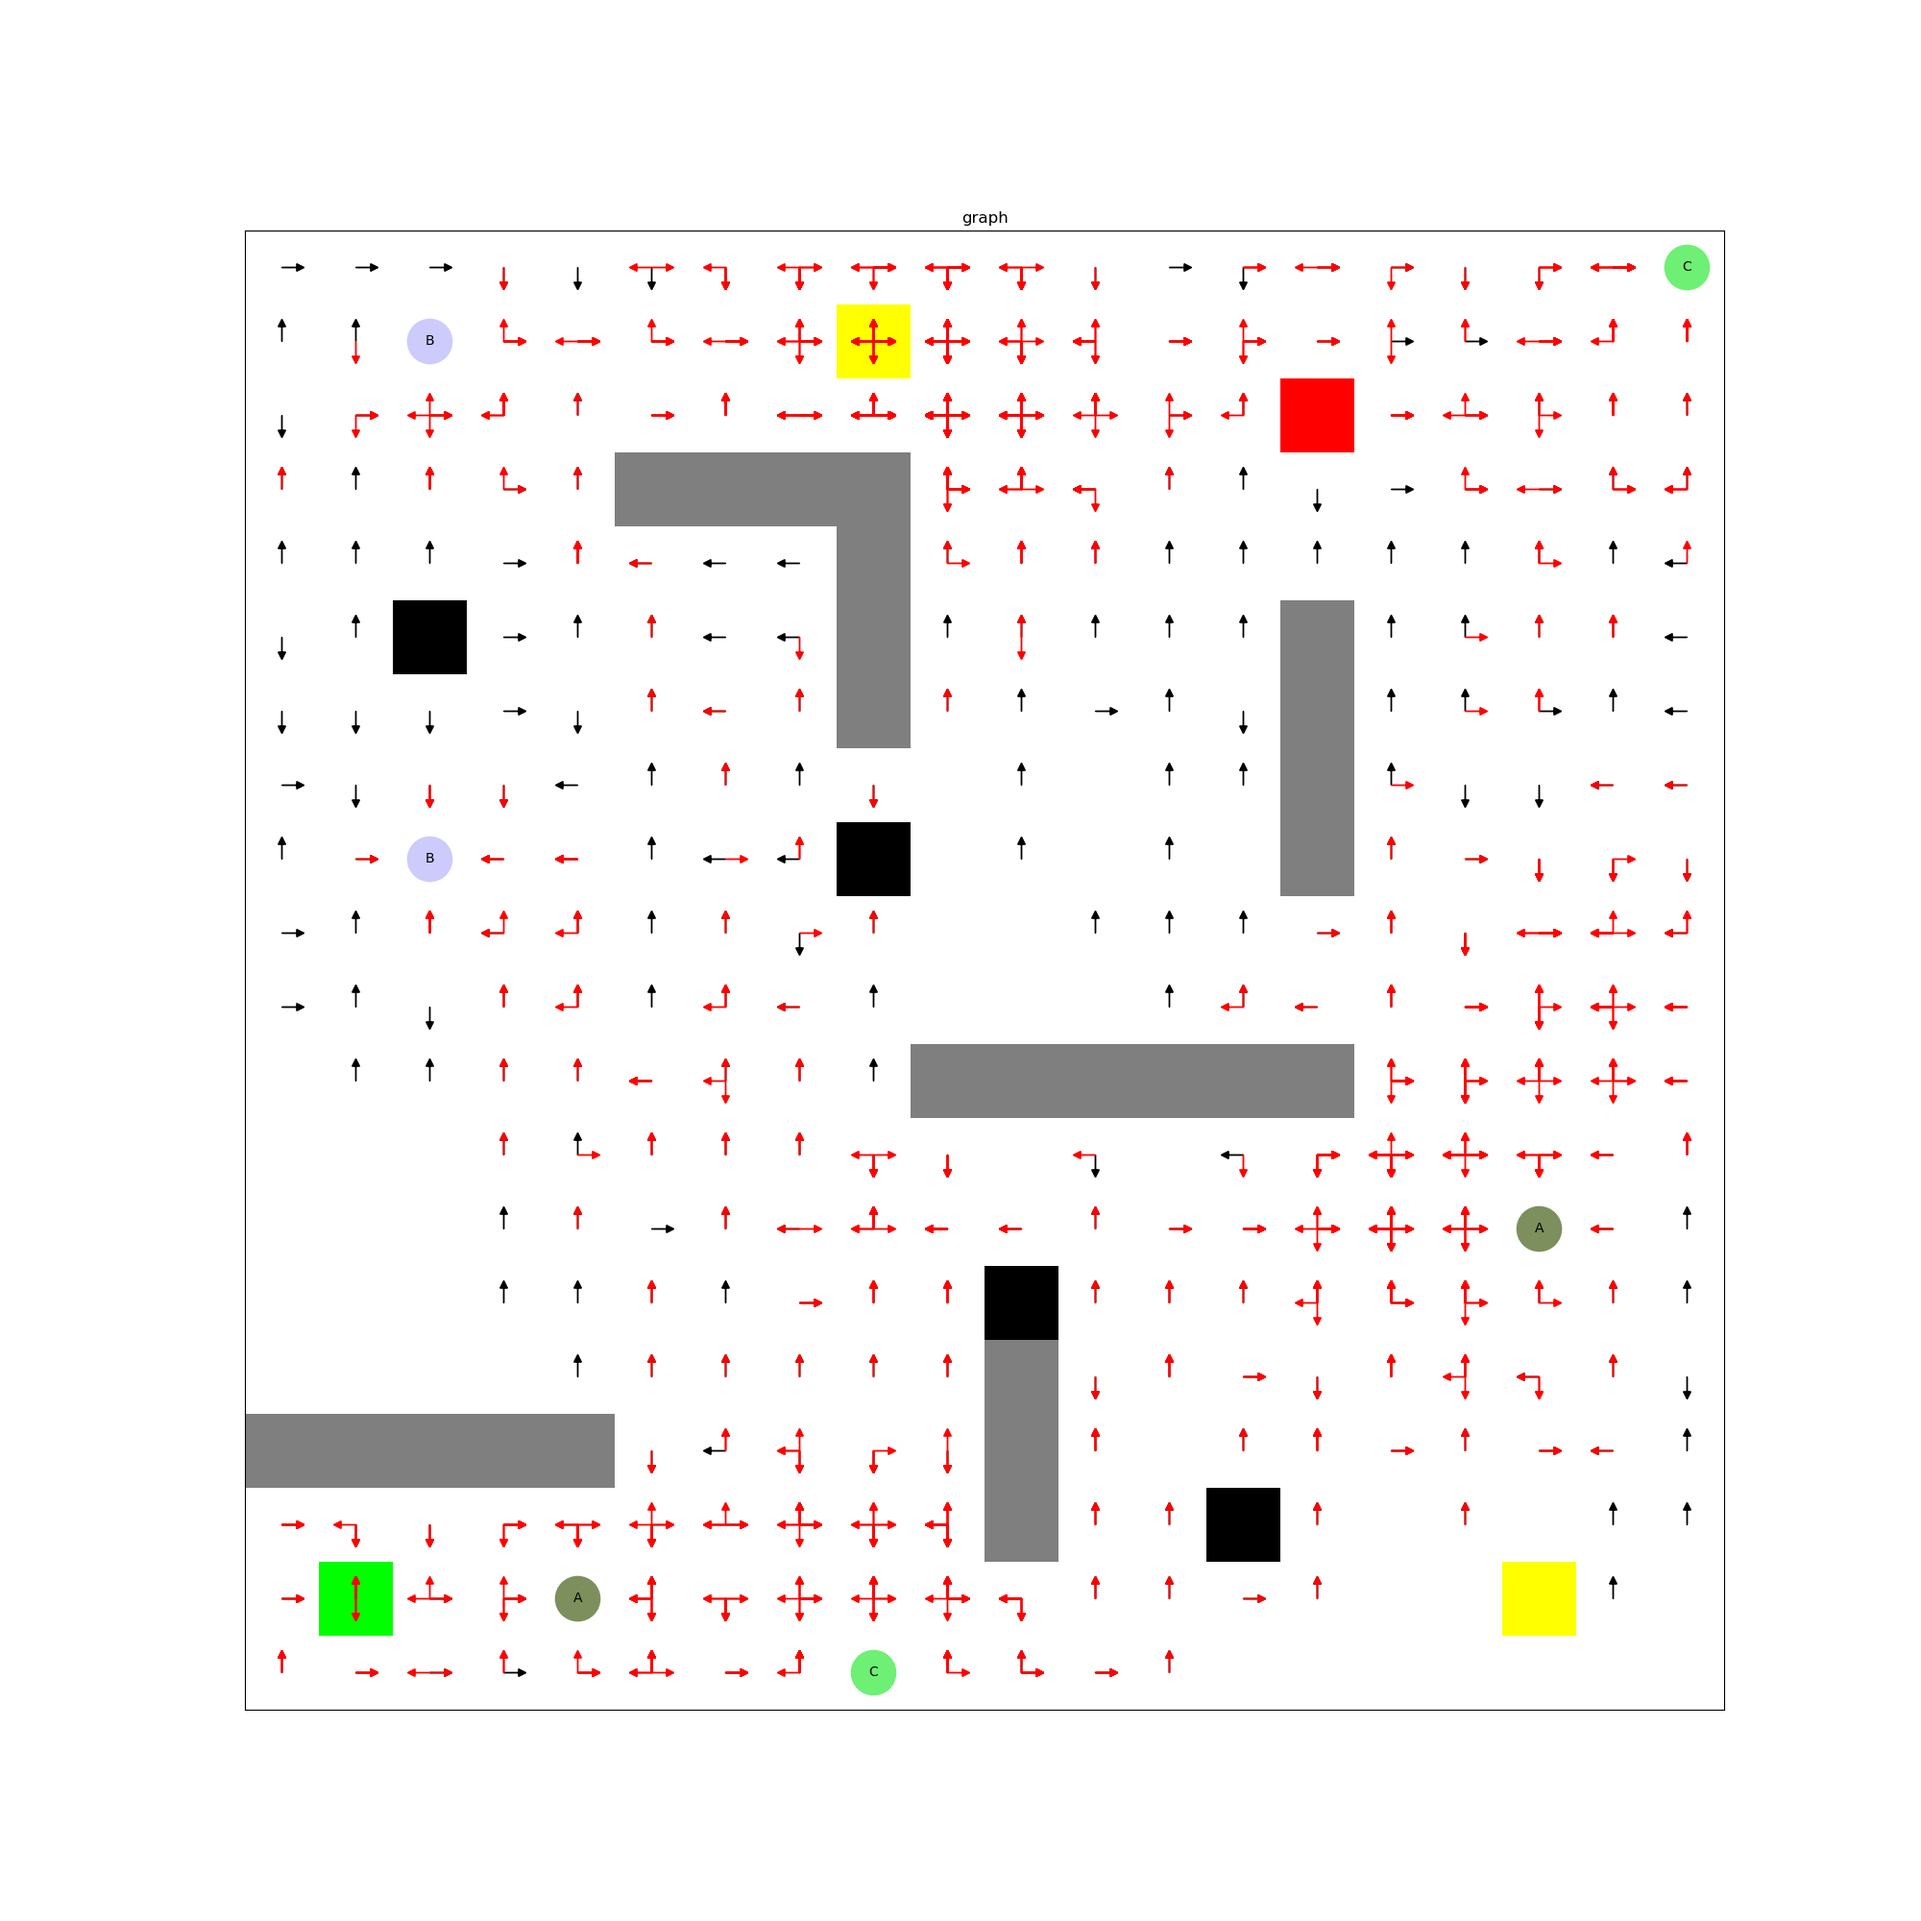
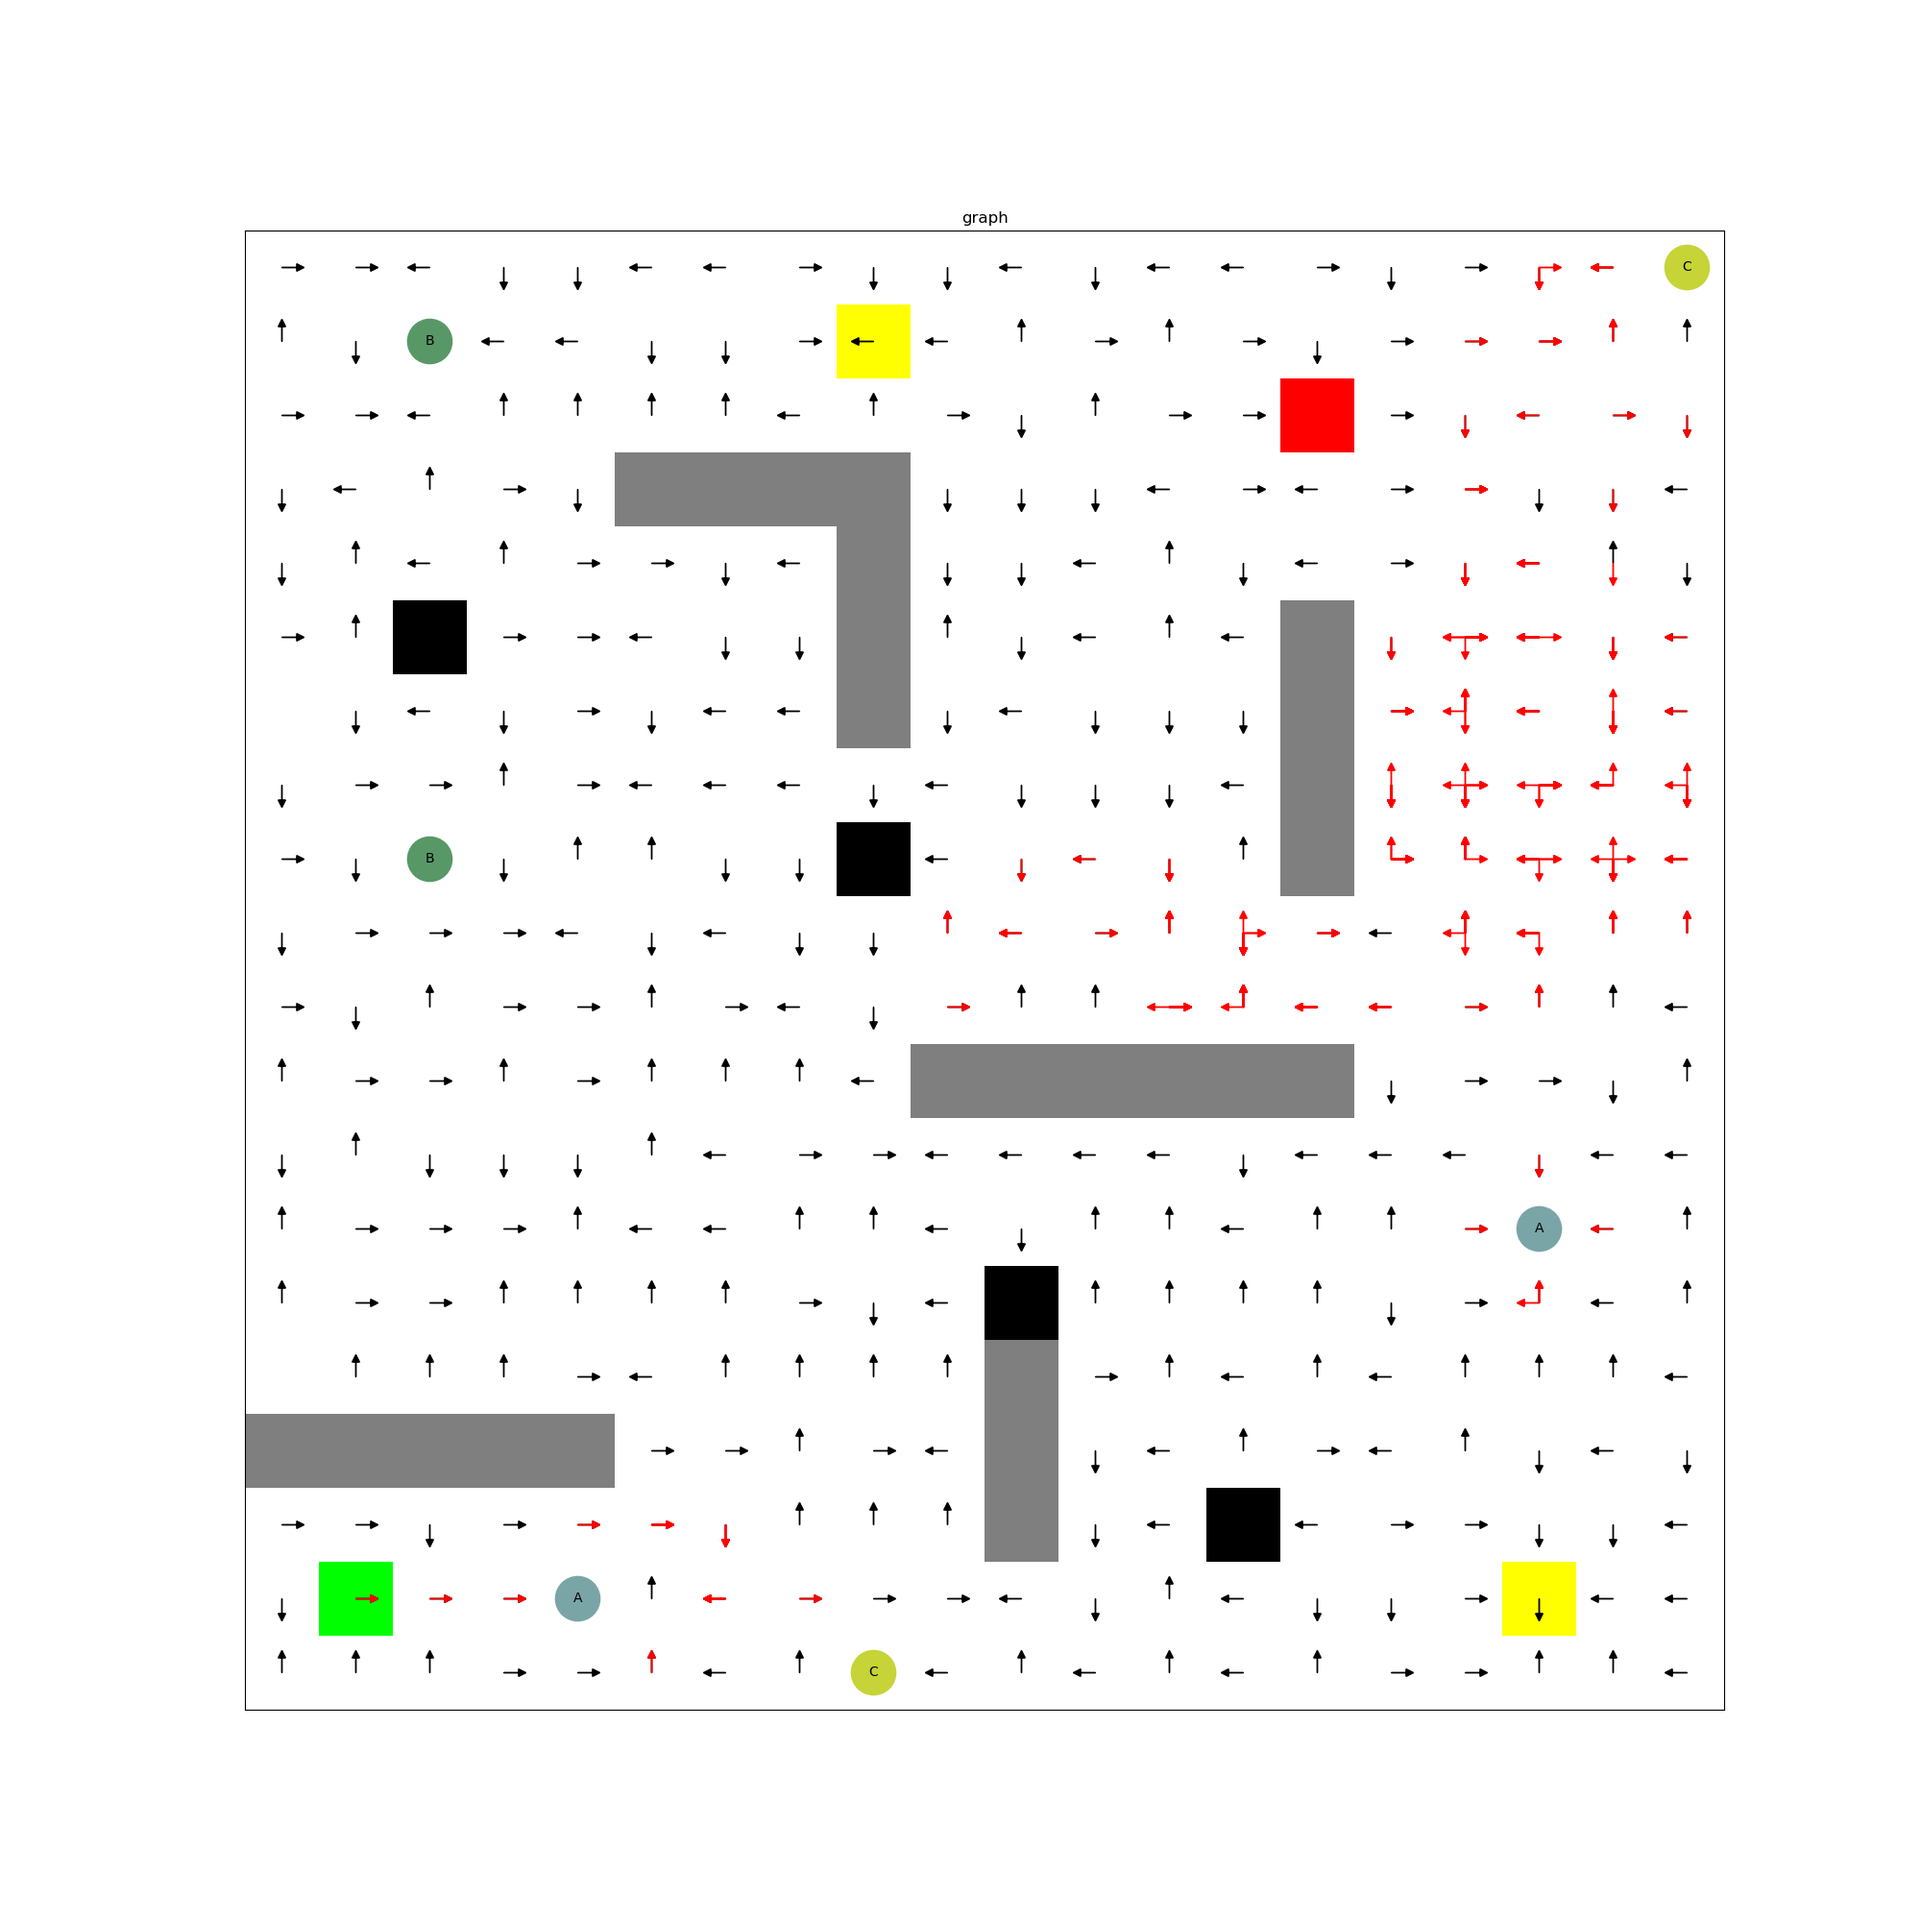
update

diff --git a/algorithm.py b/algorithm.py
@@ -24,8 +24,8 @@ class Algorithm():
         self.states = env.all_states()
 
         # dyna-q parameters
-        self.epsilon = epsilon
-        self.alpha = alpha
+        self.epsilon_in = epsilon
+        self.alpha_in = alpha
         self.theta = theta
         self.n_episode = n_ep
         self.n_simulations = n_sim
@@ -43,6 +43,8 @@ class Algorithm():
         self.start_state = []
         self.finish_rt = []
         self.cumm_rew = []
+        self.record_eps = []
+        self.record_alpha = []
 
     def eps_greedy_action(self, state): # chose an epsilon greedy action for the given state
         q = []
@@ -173,7 +175,10 @@ class Algorithm():
             done = False
             cum_rew = 0
             traj = []
-            #PQueue = []
+            self.epsilon = self.dec_bell_shaped_function(0.5, (0.25 * self.n_episode), 0.1, (0.5 * self.n_episode), i)
+            self.record_eps.append(self.epsilon)
+            self.alpha = self.dec_bell_shaped_function(0.8, (0.5 * self.n_episode), 0.2, (0.75 * self.n_episode), i)
+            self.record_alpha.append(self.alpha)
             if (i == (self.n_episode - 1)): save = True
 
             s = self.env.reset().observation # observe the initial state
@@ -231,78 +236,6 @@ class Algorithm():
         
         return traj
     
-
-    def dyna_q_test(self):
-        # initialization
-        time_out = self.rows * self.column * 10
-        t_out = self.rows * self.column
-        t = 0
-        old_t = 0
-        cum_rew = 0
-        PQueue = []
-        save = False
-        
-        for i in range(self.n_episode):
-            done = False
-            cum_rew = 0
-            traj = []
-            #PQueue = []
-            if (i == (self.n_episode - 1)): save = True
-
-            s = self.env.reset().observation # observe the initial state
-            state = (s[0], s[1])
-            self.start_state = state
-
-            while not done:
-                t += 1
-                
-                action = self.eps_greedy_action(state)
-                timestep = self.env.step(action)
-                n_s = timestep.observation
-                n_state = (n_s[0], n_s[1])
-                reward = float(timestep.reward)
-                cum_rew += reward
-                #print("\n")
-                #print("A state", state, "action", action, "reward", reward, "new state", n_state)
-
-                if (save == True): traj.append([state, action])
-                if (reward != 0): print("reward ", reward, "state ", state) 
-                
-                
-                self.model_update(state, action, t, reward, n_state)
-                #print("B model state action ",self.model[state, action] )
-                
-                PQueue = self.pq_update(state, action, reward, n_state, PQueue)
-                #print("C PQ", PQueue)
-                
-                sim_count = 0
-                while ((PQueue != []) and (sim_count <= self.n_simulations)):
-                    sim_count += 1
-                    sim_state, sim_action = PQueue[0][0:2]
-                    del PQueue[0]
-                    #print("D PQ", PQueue)
-                    new_sim_state, sim_reward = self.simulation(sim_state, sim_action, t)
-                    #print("sim_state", sim_state, "sim action", sim_action, "new sim state", new_sim_state, "sim reward", sim_reward)
-                    #print("model sim B", self.model[sim_state, sim_action])
-                    self.q_update(sim_state, sim_action, sim_reward, new_sim_state)
-                    #print("model sim A", self.model[sim_state, sim_action])
-                    pred = self.SA_predict(sim_state)
-                    #print("pred", pred)
-                    for pr in pred:
-                        PQueue = self.pq_update(pr[0], pr[1], pr[2], sim_state, PQueue)
-                        #print("PQ F", PQueue)
-                
-                state = n_state
-
-                if ((timestep.is_last()) or (t >= t_out)): # if we reached the end of the episode or the step limit (to prevent loops)
-                    t_out = t + time_out
-                    print("episode: ", i, " steps: ", t - old_t, " cum reward: ", cum_rew)
-                    self.finish_rt .append(t - old_t)
-                    old_t = t
-                    self.cumm_rew.append(cum_rew)
-                    done = True
-        
-        return traj
     
     def policy_eval(self):
         policy = np.ones((self.rows, self.column)) * 5
@@ -398,28 +331,48 @@ class Algorithm():
         plt.savefig(graph_name) 
 
     def plot_data(self):
-        print("cumm reward ", self.cumm_rew)
-
-        # Plot the functions
-        plt.figure(figsize=(8, 6))  # Set the size of the figure
-
-        plt.plot(range(len(self.cumm_rew)), self.cumm_rew, label='cumulative reward')  # Plot the first function
-        plt.plot(range(len(self.finish_rt)), self.finish_rt, label='real time')  # Plot the second function
-
+        
+        # Plot timesteps
+        plt.figure(1, figsize=(8, 6))  # Set the size of the figure
+        plt.plot(range(len(self.finish_rt)), self.finish_rt)  # Plot the second function
         plt.xlabel('episodes')  # Label for x-axis
-        plt.ylabel('y')  # Label for y-axis
-        plt.title('Plot of cumulative reward = f(episodes) and episede steps = f(episodes)')  # Title of the plot
+        plt.ylabel('time')  # Label for y-axis
+        plt.title('timesteps = f(episodes)')  # Title of the plot
+        plt.grid(True)  # Add grid
+        plt.show()  # Show the plot
+        
+        # plot cumulative rewards
+        plt.figure(2, figsize=(8, 6))  # Set the size of the figure
+        plt.plot(range(len(self.cumm_rew)), self.cumm_rew)  # Plot the first function
+        plt.xlabel('episodes')  # Label for x-axis
+        plt.ylabel('time')  # Label for y-axis
+        plt.title('cumulative reward = f(episodes)')  # Title of the plot
+        plt.grid(True)  # Add grid
+        plt.show()  # Show the plot
 
-        plt.legend()  # Display legend
+        # plot epsilon
+        plt.figure(3, figsize=(8, 6))  # Set the size of the figure
+        plt.plot(range(len(self.record_eps)), self.record_eps)  # Plot the first function
+        plt.xlabel('episodes')  # Label for x-axis
+        plt.ylabel('time')  # Label for y-axis
+        plt.title('epsilon = f(episodes)')  # Title of the plot
+        plt.grid(True)  # Add grid
+        plt.show()  # Show the plot
 
+        # plot epsilon
+        plt.figure(4, figsize=(8, 6))  # Set the size of the figure
+        plt.plot(range(len(self.record_alpha)), self.record_alpha)  # Plot the first function
+        plt.xlabel('episodes')  # Label for x-axis
+        plt.ylabel('time')  # Label for y-axis
+        plt.title('alpha = f(episodes)')  # Title of the plot
         plt.grid(True)  # Add grid
         plt.show()  # Show the plot
     
 def main(): 
     
     env = DunegeonEnvironment()
-    solver = Algorithm(env, 0.2, 0.2, 0.001, 50, 10, 0.01)
-    traj = solver.dyna_q_test()
+    solver = Algorithm(env, 0.2, 0.2, 0.001, 100, 10, 0.01)
+    traj = solver.dyna_q()
     policy = solver.policy_eval()
     solver.plot_arrow_grid(policy, traj, "graph")
     solver.plot_data()

diff --git a/README1.md b/README1.md
@@ -1,0 +1,3 @@
+# Dyna-Q + with prioritized sweeping:
+In this Reinforcement Learning project a Dyna-Q + algorithm with prioritized sweeping is developed.
+The proposed algorithm 
